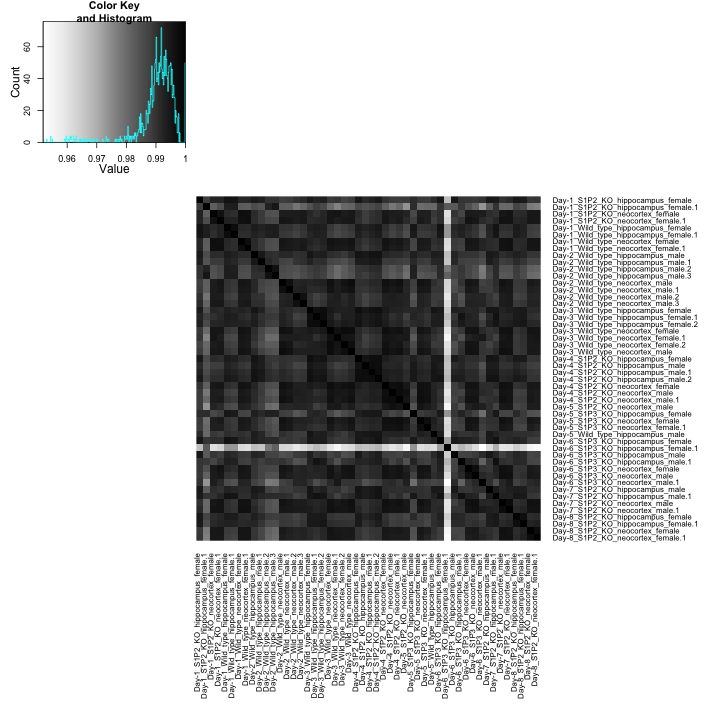
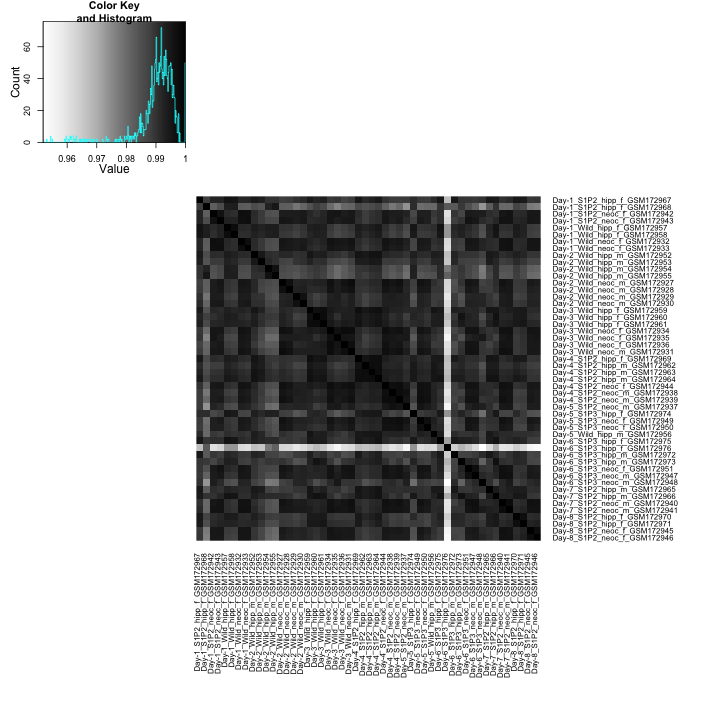
outlier removal and normalization

Changed region(s): [[0.2444, 0.7639, 0.7639, 0.9778], [0.825, 0.275, 0.9778, 0.7639]]

diff --git a/code_stat540/assign1.md b/code_stat540/assign1.md
@@ -30,6 +30,20 @@ library(gplots)
 ##     lowess
 ```
 
+```r
+library(preprocessCore)
+library(reshape)
+```
+
+```
+## 
+## Attaching package: 'reshape'
+## 
+## The following objects are masked from 'package:plyr':
+## 
+##     rename, round_any
+```
+
 
 
 
@@ -43,6 +57,7 @@ design <- read.table("../data/mouseBrain/GSE7191-design.txt",
                      row.names=1, header=TRUE)
 expDat <- read.table("../data/mouseBrain/GSE7191-data.txt",
                      row.name="probe", header=TRUE)
+design$Sid <- rownames(design)
 
 # order expression data columns (samples) by the rows in the design table
 expDat <- expDat[, row.names(design)]
@@ -62,8 +77,12 @@ newDateRun <- with(design, {
 design$DateRun <- newDateRun
 
 # more informative column names for expDat
-colnames(expDat) <- with(design,
-                       paste(DateRun, Genotype, BrainRegion, Sex, sep="_"))
+colnames(expDat) <- 
+  with(design, paste(DateRun, 
+                     substr(Genotype,1,4), 
+                     substr(BrainRegion,1,4), 
+                     substr(Sex,1,1), Sid,
+                     sep="_"))
 
 # define sample order
 sampleOrd <- with(design, order(DateRun, Genotype, BrainRegion, Sex))
@@ -90,7 +109,7 @@ dim(design)  # [samples, design factors]
 ```
 
 ```
-[1] 50  4
+[1] 50  5
 ```
 
 ```r
@@ -158,7 +177,7 @@ html_print(addmargins(x))
 ```
 
 <!-- html table generated in R 3.0.2 by xtable 1.7-1 package -->
-<!-- Sun Feb 23 10:23:09 2014 -->
+<!-- Sun Feb 23 19:32:51 2014 -->
 <TABLE border=1>
 <TR> <TH>  </TH> <TH> S1P2_KO </TH> <TH> S1P3_KO </TH> <TH> Wild_type </TH> <TH> Sum </TH>  </TR>
   <TR> <TD align="right"> hippocampus </TD> <TD align="right"> 10 </TD> <TD align="right"> 5 </TD> <TD align="right"> 10 </TD> <TD align="right"> 25 </TD> </TR>
@@ -269,8 +288,6 @@ neocortex   female            6.608   6.398     6.645
 #### a)
 
 
-
-
 ```r
 # creating some color palette
 jPurplesFun <- colorRampPalette(brewer.pal(n = 9, "Purples"))
@@ -281,33 +298,148 @@ jGreysFun <- colorRampPalette(brewer.pal(n = 9, "Greys"))
 
 ```r
 sampleCor <- cor(expDat)
-heatmap.2(sampleCor, 
-          Rowv = FALSE, dendrogram="none",
-          symm=TRUE, margins=c(15,15),
-          trace="none", scale="none", col = jGreysFun(256))
+
+myheatmap <- function(sampleCor, ...){
+  heatmap.2(sampleCor, 
+            Rowv = FALSE, dendrogram="none",
+            symm=TRUE, margins=c(15,15),
+            trace="none", scale="none", col = jGreysFun(256))
+}
+myheatmap(sampleCor)
 ```
 
 ![plot of chunk unnamed-chunk-15](figure/unnamed-chunk-15.png) 
 
 
 
+b) Outlier sample
+
+To show how the outlier stands out visually, I computed the mean correlation for each row. And display the distribution of the means using a density plot.
+
 ```r
-#heatmap(expDat, Rowv = NA, Colv = NA, scale="none", margins = c(5, 8), col = jBuPuFun(256))
-set.seed(540)
-hSize <- 200
-theseProbes <- sample(1:nrow(expDat), hSize)
-hDat <- expDat[theseProbes, sampleOrd]
-hDat <- as.matrix(hDat)
-colnames(hDat) <- with(design[sampleOrd,],
-                       paste(DateRun, Genotype, BrainRegion, Sex, sep="_"))
+meanCor <- rowMeans(sampleCor)
+ggplot(data.frame(meanCor=meanCor),
+       aes(x=meanCor)) +
+  geom_bar(alpha=0.5)
+```
 
-
-jPurplesFun <- colorRampPalette(brewer.pal(n = 9, "Purples"))
-heatmap(hDat, Colv = NA, Rowv = NA, scale=c("column"), 
-        margins = c(5, 8), col = jPurplesFun(256))
+```
+stat_bin: binwidth defaulted to range/30. Use 'binwidth = x' to adjust this.
 ```
 
 ![plot of chunk unnamed-chunk-16](figure/unnamed-chunk-16.png) 
+
+```r
+
+(outlierName <- names(which(meanCor==min(meanCor))))
+```
+
+```
+[1] "Day-6_S1P3_hipp_f_GSM172976"
+```
+
+
+Numerically, I computed the rank sum test to show that the correlation involving outlier sample has a different mean from those not involving the outlier sample. I suppose I have to assume independence between all these correlation coefficeints which obviously isn't true, but maybe I can be sloppy here... 
+
+
+
+
+
+### 3  Normalization 
+
+#### a) Prior to normalization
+
+
+```r
+# elongate <- function(hDat){
+#   sampleName <- factor(colnames(eDat))
+#   ldply(hDat, summarize){
+# #     print(dim(x))
+# #     print(names(x))
+# #     return(data.frame(gExp=x, sampleName=x))
+#   })
+# }
+```
+
+
+
+```r
+set.seed(540)
+hSize <- 2000
+theseProbes <- sample(1:nrow(expDat), hSize)
+expDat2 <- expDat[theseProbes,]
+expDat2 <- expDat
+
+longExpDat <- melt(cbind(expDat2, probe=rownames(expDat2)), 
+                   'probe')
+longExpDat <- rename(longExpDat, 
+                     c("variable"="SampleName", "value"="gExp"))
+
+
+
+p <- ggplot(longExpDat, 
+            aes(SampleName, gExp, color=SampleName==outlierName))
+p + geom_boxplot()
+```
+
+![plot of chunk unnamed-chunk-19](figure/unnamed-chunk-19.png) 
+
+
+
+
+```r
+
+myNormalize <- function(eDat){
+  neDat <- normalize.quantiles(as.matrix(eDat))
+  neDat <- data.frame(neDat)
+  rownames(neDat) <- rownames(eDat)
+  colnames(neDat) <- colnames(eDat) 
+  return(neDat)
+}
+
+nExpDat <- myNormalize(expDat)
+```
+
+
+
+#### b) With normalization alone
+
+```r
+myheatmap(cor(nExpDat))
+```
+
+![plot of chunk unnamed-chunk-21](figure/unnamed-chunk-21.png) 
+
+
+
+#### c) With outlier removed and quantile normalization
+
+```r
+nrExpDat <- expDat[, colnames(expDat) != outlierName]
+nrExpDat <- myNormalize(nrExpDat)
+myheatmap(cor(nrExpDat))
+```
+
+![plot of chunk unnamed-chunk-22](figure/unnamed-chunk-22.png) 
+
+
+
+
+```r
+#heatmap(expDat, Rowv = NA, Colv = NA, scale="none", margins = c(5, 8), col = jBuPuFun(256))
+# set.seed(540)
+# hSize <- 200
+# theseProbes <- sample(1:nrow(expDat), hSize)
+# hDat <- expDat[theseProbes, sampleOrd]
+# hDat <- as.matrix(hDat)
+# colnames(hDat) <- with(design[sampleOrd,],
+#                        paste(DateRun, Genotype, BrainRegion, Sex, sep="_"))
+# 
+# 
+# jPurplesFun <- colorRampPalette(brewer.pal(n = 9, "Purples"))
+# heatmap(hDat, Colv = NA, Rowv = NA, scale=c("column"), 
+#         margins = c(5, 8), col = jPurplesFun(256))
+```
 
 
 
@@ -316,6 +448,6 @@ heatmap(hDat, Colv = NA, Rowv = NA, scale=c("column"),
 plot(cars)
 ```
 
-![plot of chunk unnamed-chunk-17](figure/unnamed-chunk-17.png) 
+![plot of chunk unnamed-chunk-24](figure/unnamed-chunk-24.png) 
 
 
